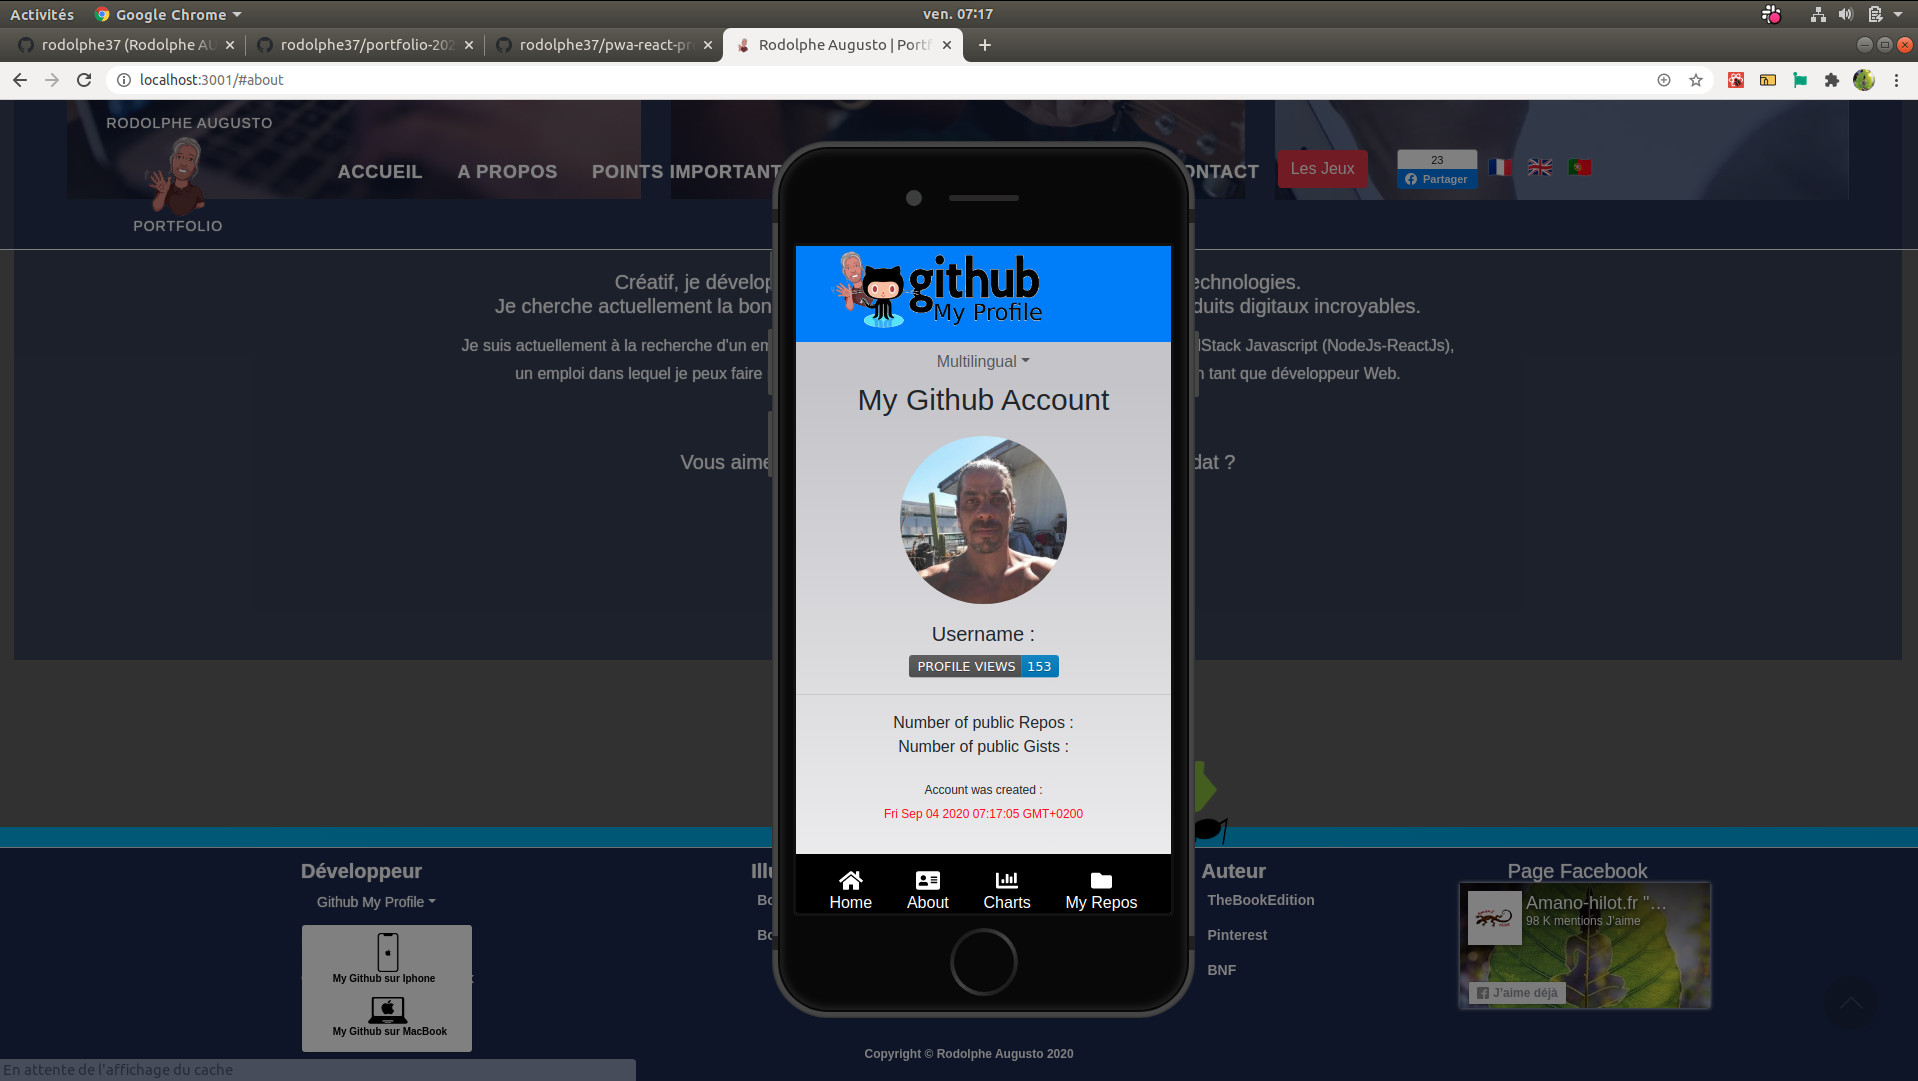
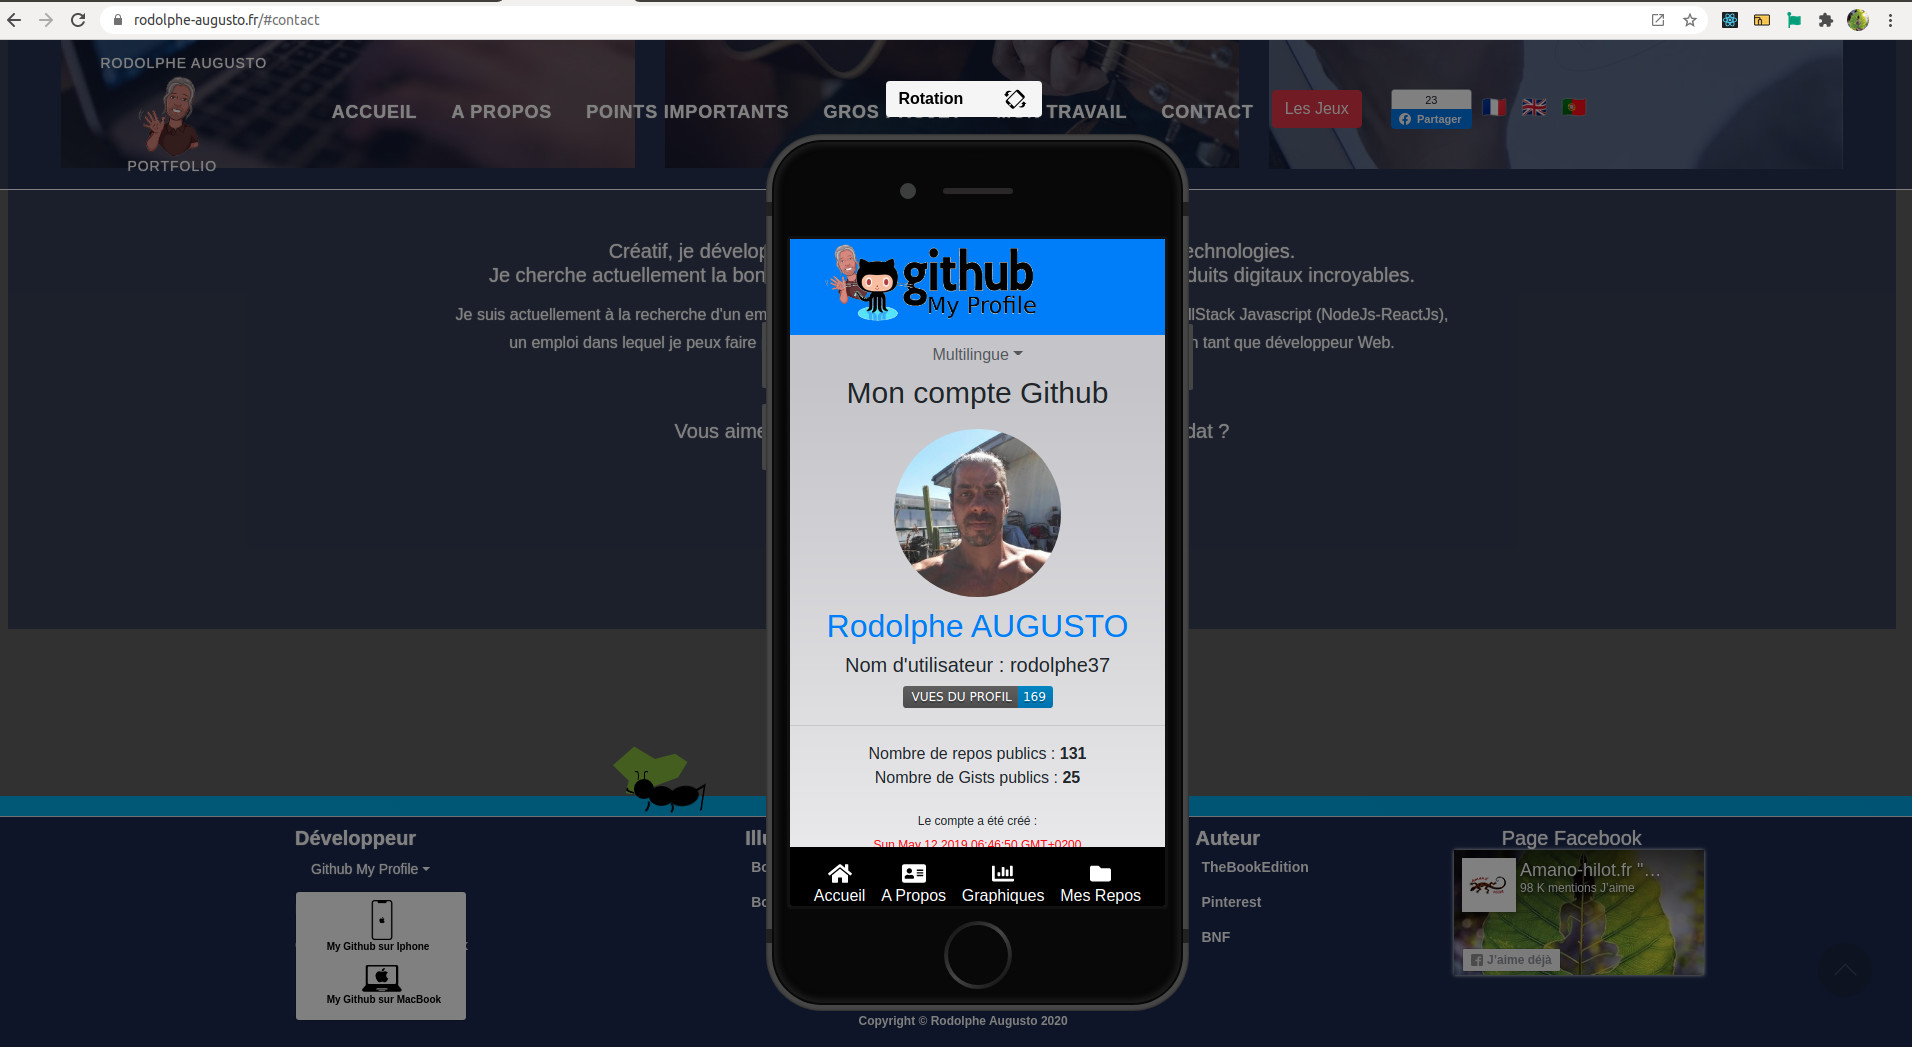
update readme file

Changed region(s): [[0.0, 0.2139, 1.0, 1.0], [0.0, 0.0, 1.0, 0.2139], [0.6172, 0.3973, 0.648, 0.4585]]

diff --git a/src/components/modalPhoneLandscapeFrame /phoneLandscapeFrame/phone-landscape-frame.scss b/src/components/modalPhoneLandscapeFrame /phoneLandscapeFrame/phone-landscape-frame.scss
@@ -320,301 +320,4 @@
 			}
 		}
 	}
-
-
-
-
-
-
-
-
-	&.iphone8{
-		width: 375px;
-		height: 667px;
-		padding: 105px 24px;
-		background: #d9dbdc;
-		border-radius: 56px;
-		box-shadow:inset 0 0 3px 0 rgba(0, 0, 0, 0.2);
-
-		&:before{
-			width: calc(100% - 12px);
-			height: calc(100% - 12px);
-			position: absolute;
-			top: 6px;
-			content: '';
-			left: 6px;
-			border-radius: 50px;
-			background: #f8f8f8;
-			z-index: 1;
-		}
-
-		&:after{
-			width: calc(100% - 16px);
-			height: calc(100% - 16px);
-			position: absolute;
-			top: 8px;
-			content: '';
-			left: 8px;
-			border-radius: 48px;
-			box-shadow:inset 0 0 3px 0 rgba(0, 0, 0, 0.1),
-			inset 0 0 6px 3px #FFFFFF;
-			z-index: 2;
-		}
-
-		.home {
-			border-radius: 100%;
-			width: 68px;
-			height: 68px;
-			position: absolute;
-			left: 50%;
-			margin-left: -34px;
-			bottom: 22px;
-			z-index: 3;
-			background: rgb(48,50,51);
-			background: linear-gradient(135deg, rgba(48,50,51,1) 0%,rgba(181,183,185,1) 50%,rgba(240,242,242,1) 69%,rgba(48,50,51,1) 100%);
-
-			&:before{
-				background: #f8f8f8;
-				position: absolute;
-				content: '';
-				border-radius: 100%;
-				width: calc(100% - 8px);
-				height: calc(100% - 8px);
-				top: 4px;
-				left: 4px;
-			}
-		}
-
-		.top-bar{
-			height: 14px;
-			background: #bfbfc0;
-			position: absolute;
-			top: 68px;
-			left: 0;
-		}
-
-		.bottom-bar{
-			height: 14px;
-			background: #bfbfc0;
-			position: absolute;
-			bottom: 68px;
-			left: 0;
-		}
-
-		.sleep{
-			position: absolute;
-			top: 190px;
-			right: -4px;
-			width: 4px;
-			height: 66px;
-			border-radius: 0px 2px 2px 0px;
-			background: #d9dbdc;
-		}
-
-		.volume{
-			position: absolute;
-			left: -4px;
-			top: 188px;
-			z-index: 0;
-			height: 66px;
-			width: 4px;
-			border-radius: 2px 0px 0px 2px;
-			background: #d9dbdc;
-
-			&:before {
-				position: absolute;
-				left: 2px;
-				top: -78px;
-				height: 40px;
-				width: 2px;
-				border-radius: 2px 0px 0px 2px;
-				background: inherit;
-				content: '';
-				display: block;
-			}
-
-			&:after {
-				position: absolute;
-				left: 0px;
-				top: 82px;
-				height: 66px;
-				width: 4px;
-				border-radius: 2px 0px 0px 2px;
-				background: inherit;
-				content: '';
-				display: block;
-			}
-		}
-
-		.camera {
-			background: #3c3d3d;
-			width: 12px;
-			height: 12px;
-			position: absolute;
-			top: 24px;
-			left: 50%;
-			margin-left: -6px;
-			border-radius: 100%;
-			z-index: 3;
-		}
-
-		.sensor {
-			background: #3c3d3d;
-			width: 16px;
-			height: 16px;
-			position: absolute;
-			top: 49px;
-			left: 134px;
-			z-index: 3;
-			border-radius: 100%;
-		}
-
-		.speaker {
-			background: #292728;
-			width: 70px;
-			height: 6px;
-			position: absolute;
-			top: 54px;
-			left: 50%;
-			margin-left: -35px;
-			border-radius: 6px;
-			z-index: 3;
-		}
-
-		&.gold{
-			background: #f9e7d3;
-
-			.top-bar, .bottom-bar{
-				background: white;
-			}
-
-			.sleep, .volume{
-				background: #f9e7d3;
-			}
-
-			.home{
-				background: rgb(206,187,169);
-				background: linear-gradient(135deg, rgba(206,187,169,1) 0%,rgba(249,231,211,1) 50%,rgba(206,187,169,1) 100%);
-			}
-		}
-
-		&.black{
-			background: #464646;
-			box-shadow: inset 0 0 3px 0 rgba(0, 0, 0, 0.7);
-
-			&:before{
-				background: #080808;
-			}
-
-			&:after{
-				box-shadow:
-					inset 0 0 3px 0 rgba(0, 0, 0, 0.1),
-					inset 0 0 6px 3px #212121;
-			}
-
-			.top-bar, .bottom-bar{
-				background: #212121;
-			}
-
-			.volume, .sleep{
-				background: #464646;
-			}
-
-			.camera{
-				background: #080808;
-			}
-
-			.home{
-				background: rgb(8,8,8);
-				background: linear-gradient(135deg, rgba(8,8,8,1) 0%,rgba(70,70,70,1) 50%,rgba(8,8,8,1) 100%);
-
-				&:before{
-					background: #080808;
-				}
-			}
-
-		}
-
-		&.landscape{
-			padding: 24px 105px;
-			height: 375px;
-      width: 667px;
-      margin-left: -218%;
-
-			.sleep{
-				top: 100%;
-				border-radius: 0px 0px 2px 2px;
-				right: 190px;
-				height: 4px;
-				width: 66px;
-			}
-
-			.volume {
-				width: 66px;
-				height: 4px;
-				top: -4px;
-				left: calc(100% - 188px - 66px);
-				border-radius: 2px 2px 0px 0px;
-
-				&:before {
-					width: 40px;
-					height: 2px;
-					top: 2px;
-					right: -78px;
-					left: auto;
-					border-radius: 2px 2px 0px 0px;
-				}
-
-				&:after{
-					left: -82px;
-					width: 66px;
-					height: 4px;
-					top: 0;
-					border-radius: 2px 2px 0px 0px;
-				}
-			}
-
-			.top-bar{
-				width: 14px;
-				height: 100%;
-				left: calc(100% - 68px -  14px);
-				top: 0;
-			}
-
-			.bottom-bar{
-				width: 14px;
-				height: 100%;
-				left: 68px;
-				top: 0;
-			}
-
-			.home{
-				top: 50%;
-				margin-top: -34px;
-				margin-left: 0;
-				left: 22px;
-			}
-
-			.sensor {
-				top: 134px;
-				left: calc(100% - 49px - 16px);
-			}
-
-			.speaker {
-				height: 70px;
-				width: 6px;
-				left: calc(100% - 54px - 6px);
-				top: 50%;
-				margin-left: 0px;
-				margin-top: -35px;
-			}
-
-			.camera {
-				left: calc(100% - 32px);
-				top: 50%;
-				margin-left: 0px;
-				margin-top: -5px;
-			}
-		}
-	}
 }

diff --git a/README.md b/README.md
@@ -17,6 +17,9 @@
 **Github My Profile App - phone view**
 ![Phone-View](demo/portfolio21.jpg)
 
+**Github My Profile App -Landscape phone view**
+![Landscape-Phone-View](demo/portfolio21b.jpg)
+
 **Github My Profile App - macbook view**
 ![Macbook-view](demo/portfolio22.jpg)
 
